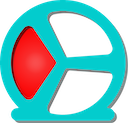
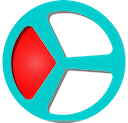
chore: update images
Release-As: 0.0.1

diff --git a/README.md b/README.md
@@ -6,15 +6,9 @@
 
 <p align="center">
   <img
-    src="priv/static/images/originals/logo-white-wordmark-with-background.png"
+    src="priv/static/images/logo-white-wordmark-with-background.png"
     width="700"
   />
-</p>
-
-<p align="center">
-  <sup>
-    <em>logo by <a href="https://github.com/hernandito" target="_blank">@hernandito</a></em>
-  </sup>
 </p>
 
 <div align="center">
@@ -41,7 +35,7 @@
     - [Docker](#docker)
     - [Podman](#podman)
     - [IMPORTANT: File permissions](#important-file-permissions)
-    - [ADVANCED: Storing Tubeless config directory on a network share](#advanced-storing-pinchflat-config-directory-on-a-network-share)
+    - [ADVANCED: Storing Tubeless config directory on a network share](#advanced-storing-tubeless-config-directory-on-a-network-share)
     - [Environment variables](#environment-variables)
     - [Reverse Proxies](#reverse-proxies)
       - [Caddy Proxy Example](#caddy-proxy-example)